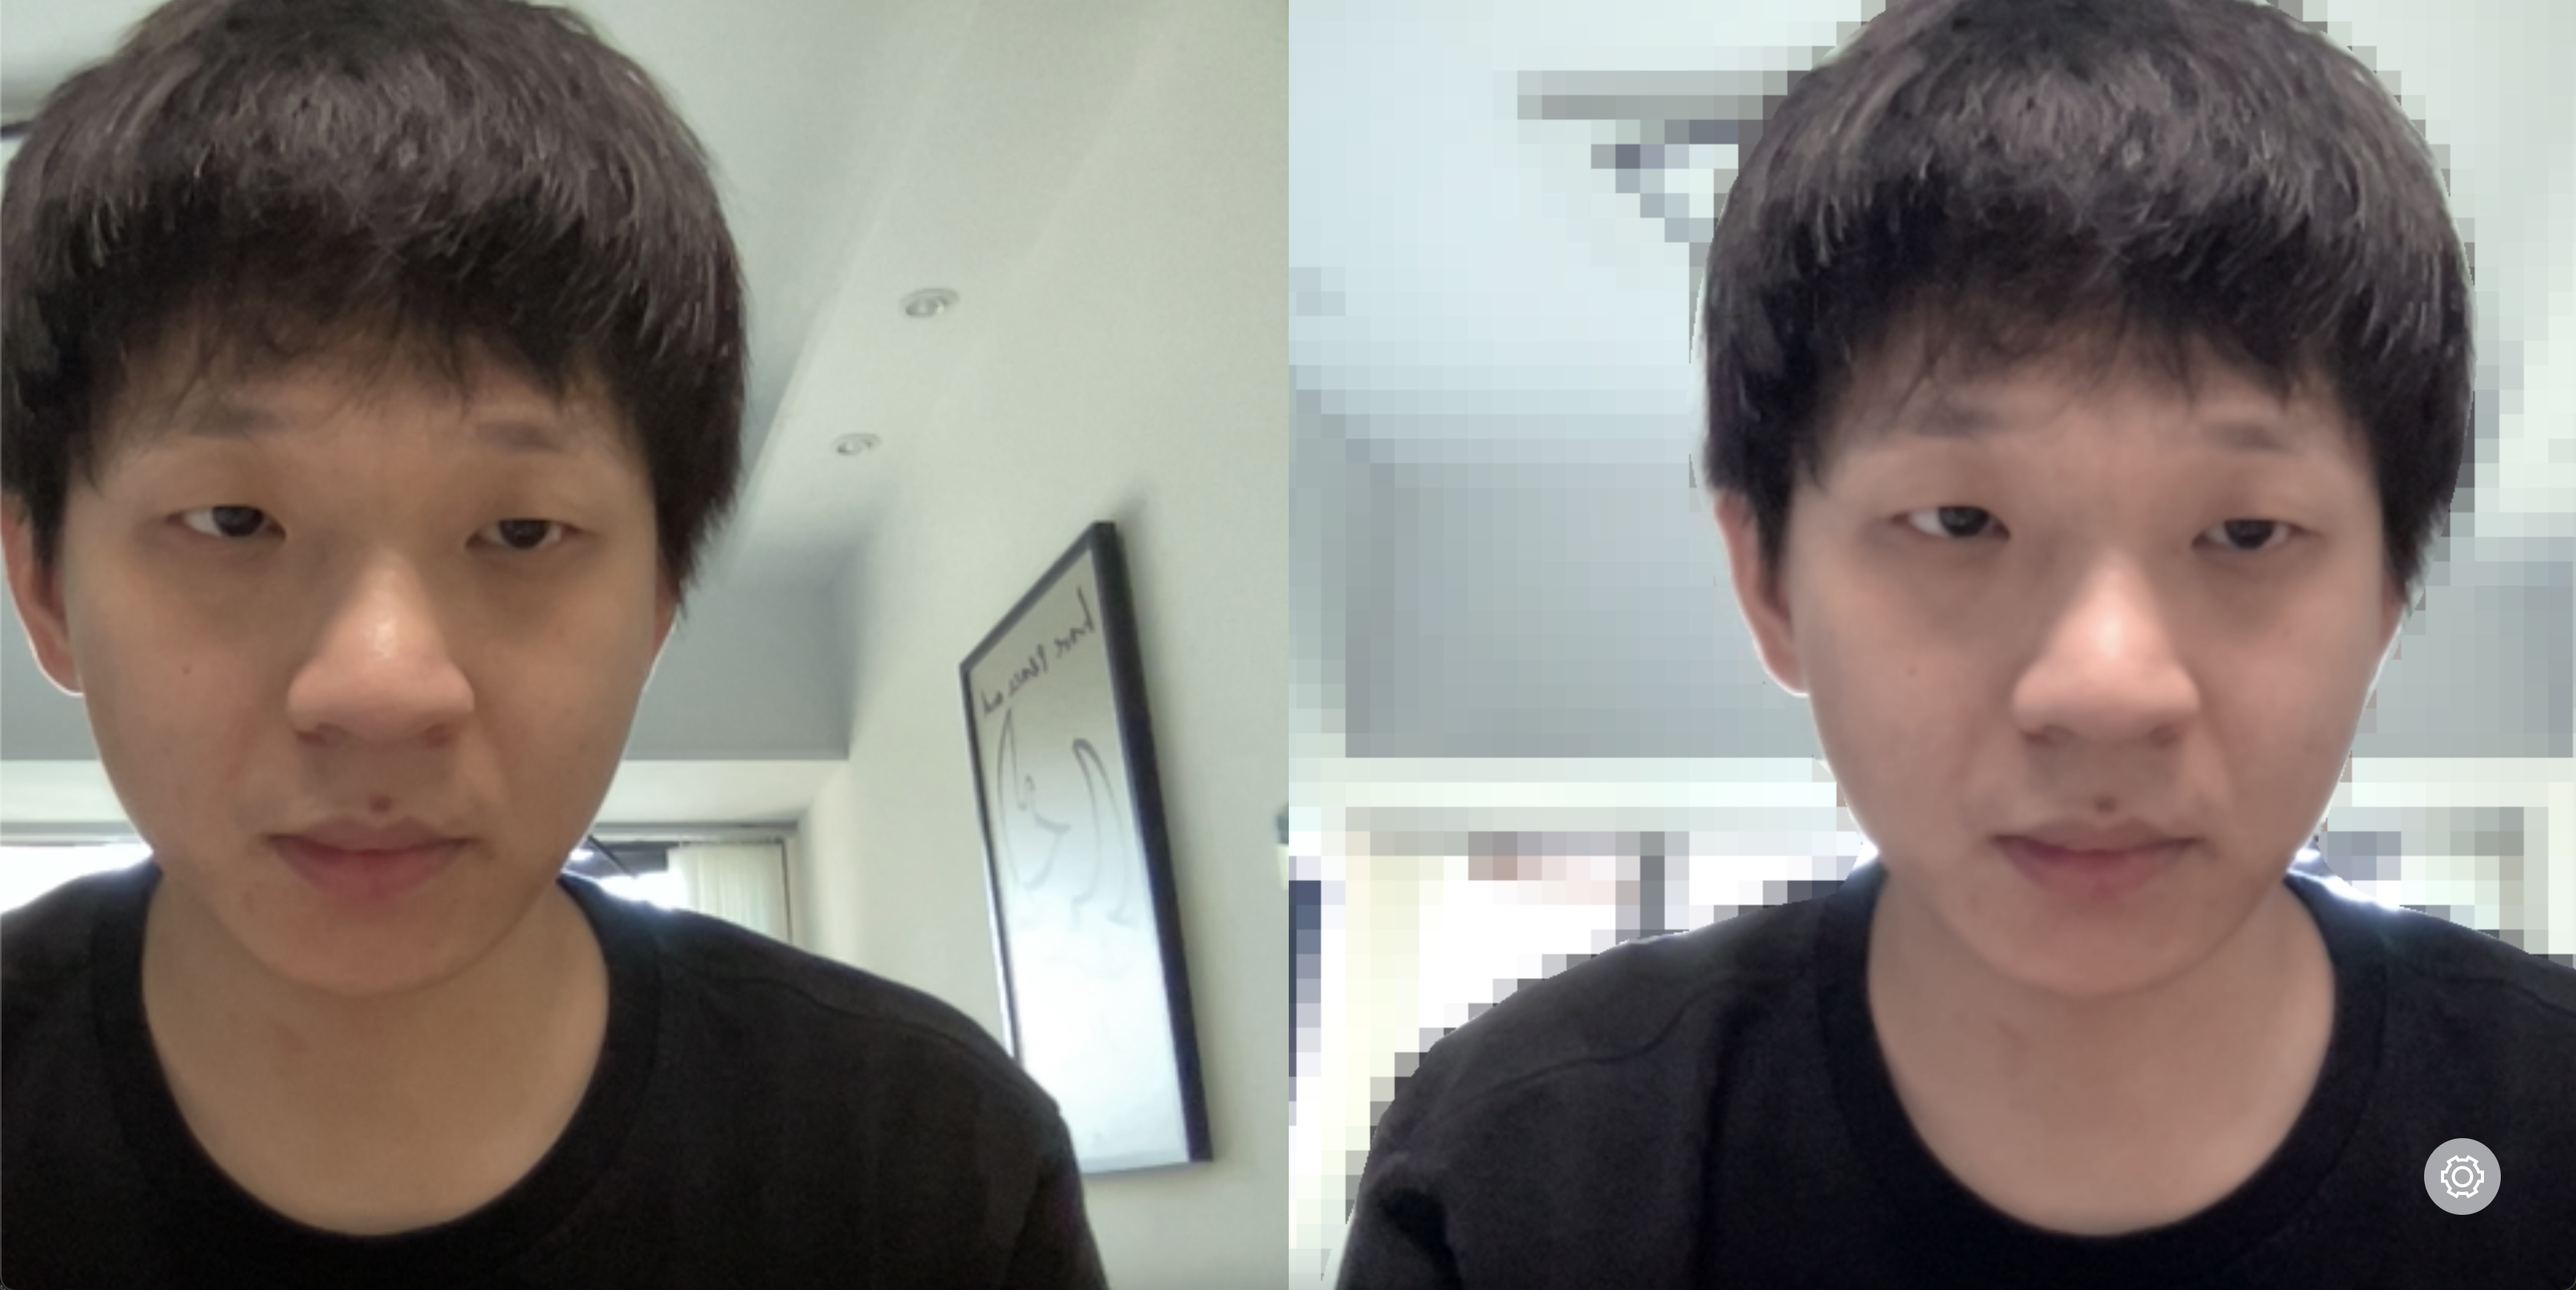
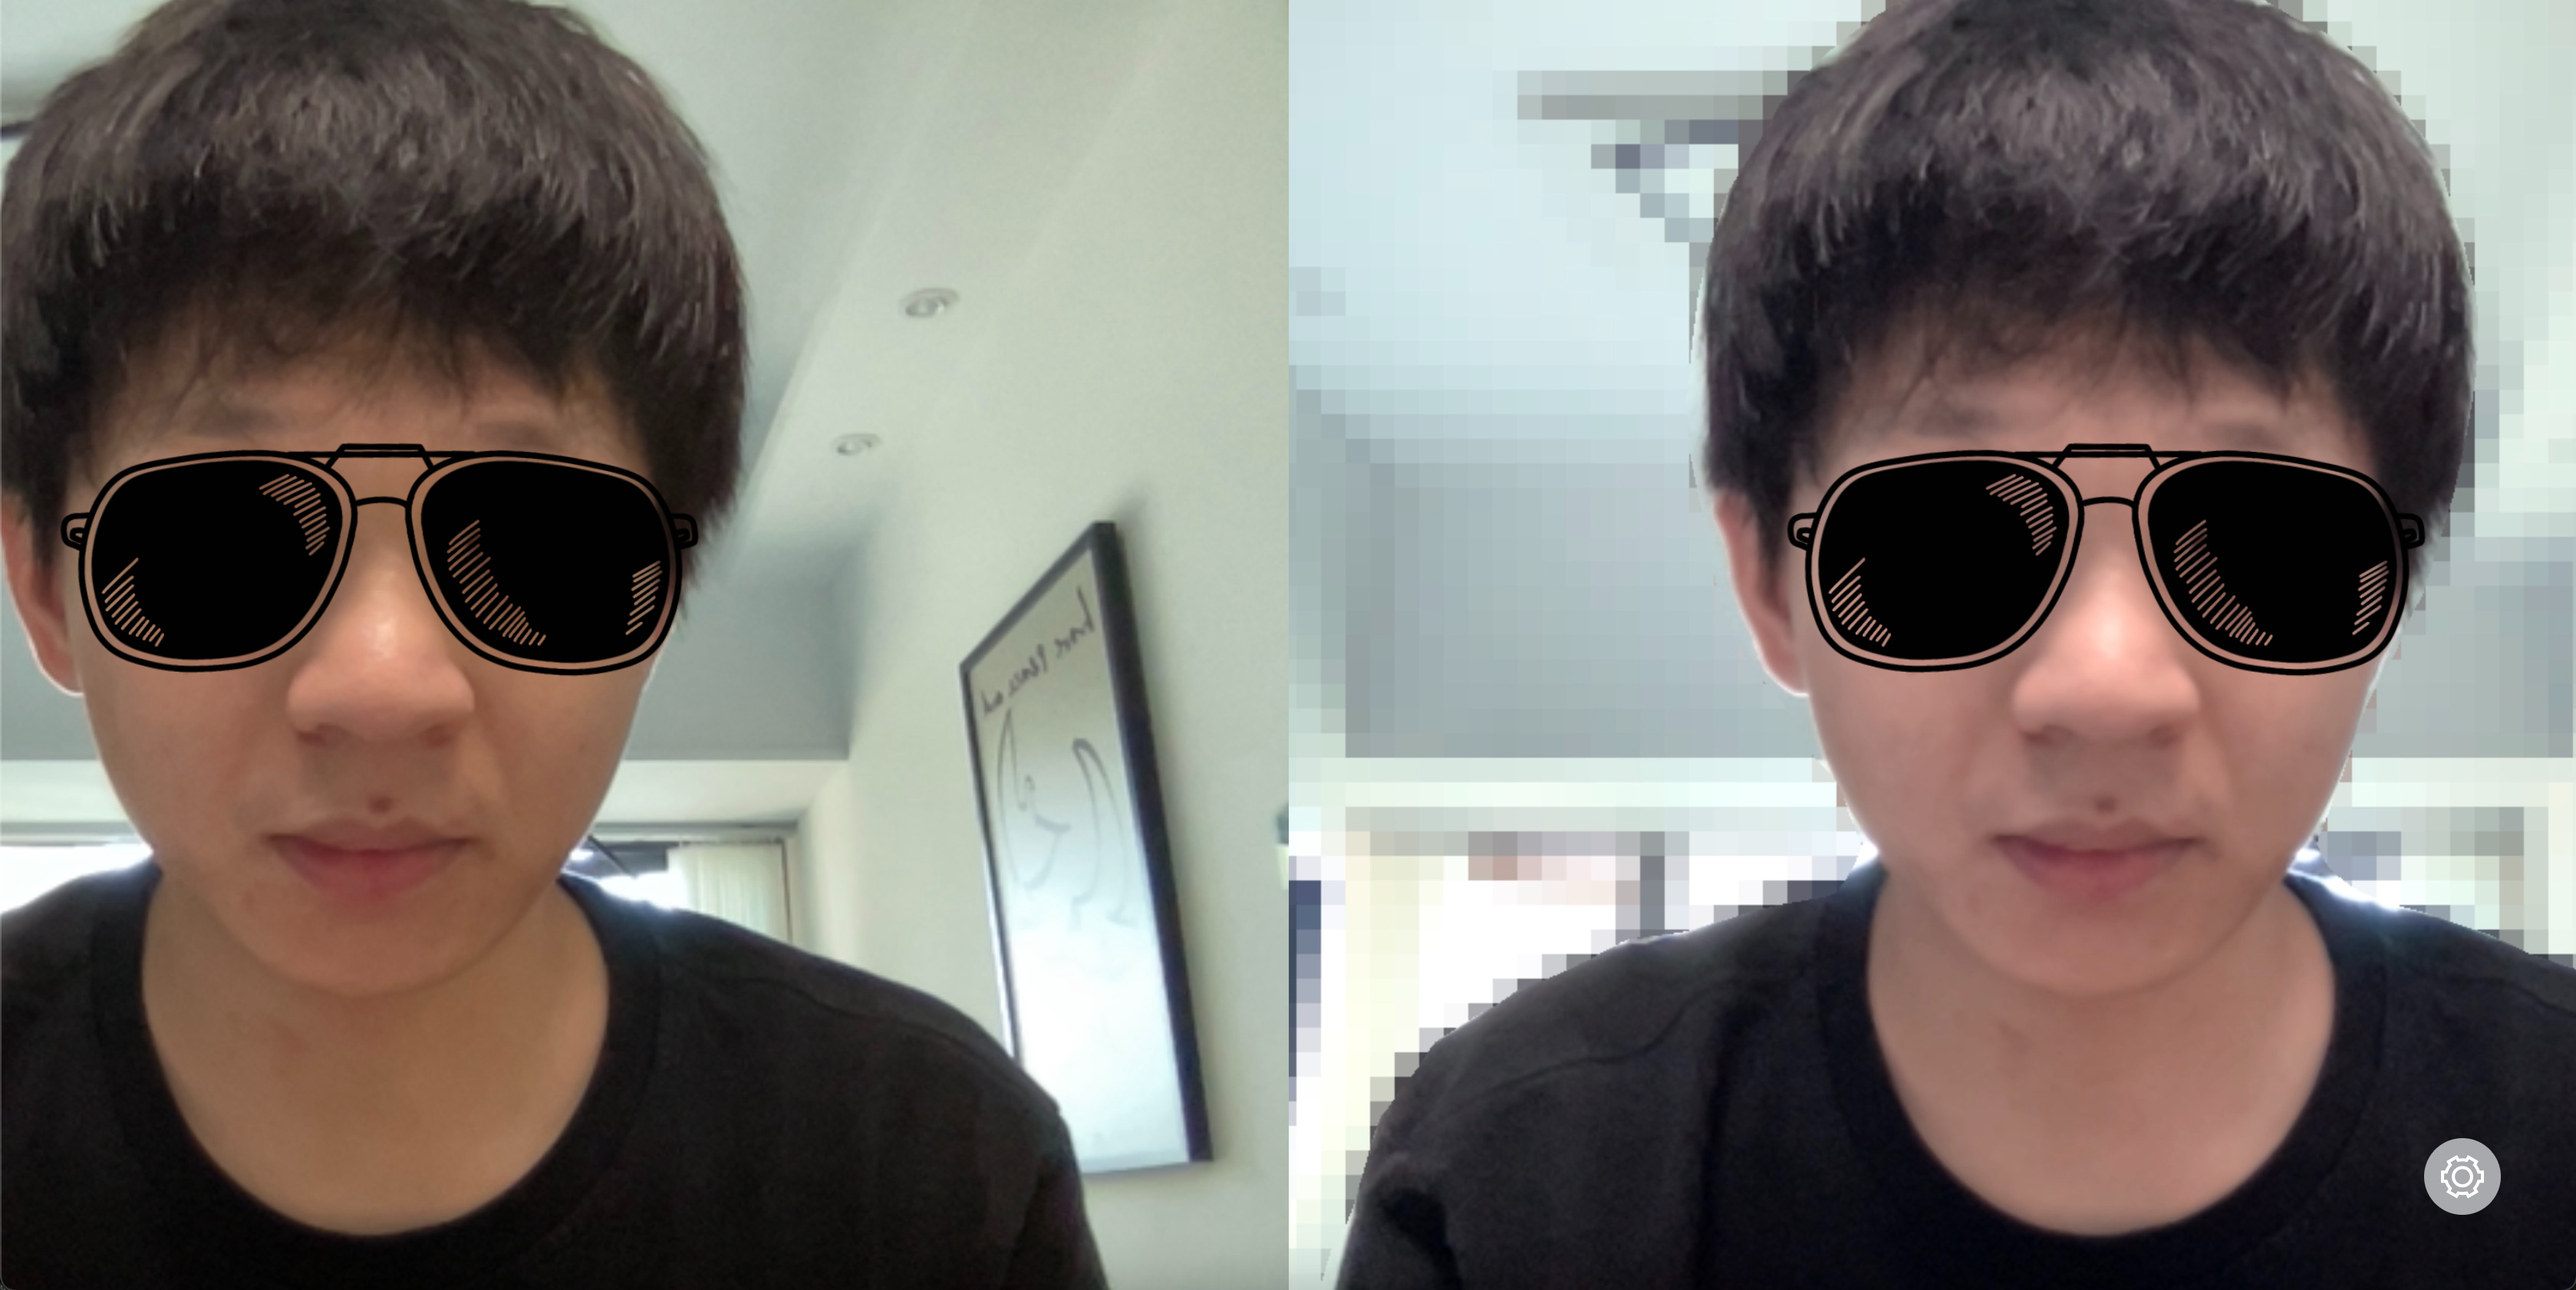
docs: 更新文档

Changed region(s): [[0.6814, 0.3401, 0.9601, 0.5256], [0.0, 0.3401, 0.2787, 0.5256]]

diff --git a/docs/imageRoutines/README.md b/docs/imageRoutines/README.md
@@ -203,9 +203,13 @@ resultVideo = await handleFilter(filterType, [
 
 ## 效果
 
-来感受一下十级美颜和背景马赛克的效果吧。
+美颜和背景马赛克的效果（墨镜后期加上去的，防止暴露形象）。
 
 ![effect](images/effect.png)
+
+目前共有10级美颜和8个背景可选
+
+![setting](images/setting.png)
 
 再看一下性能表现。
 
